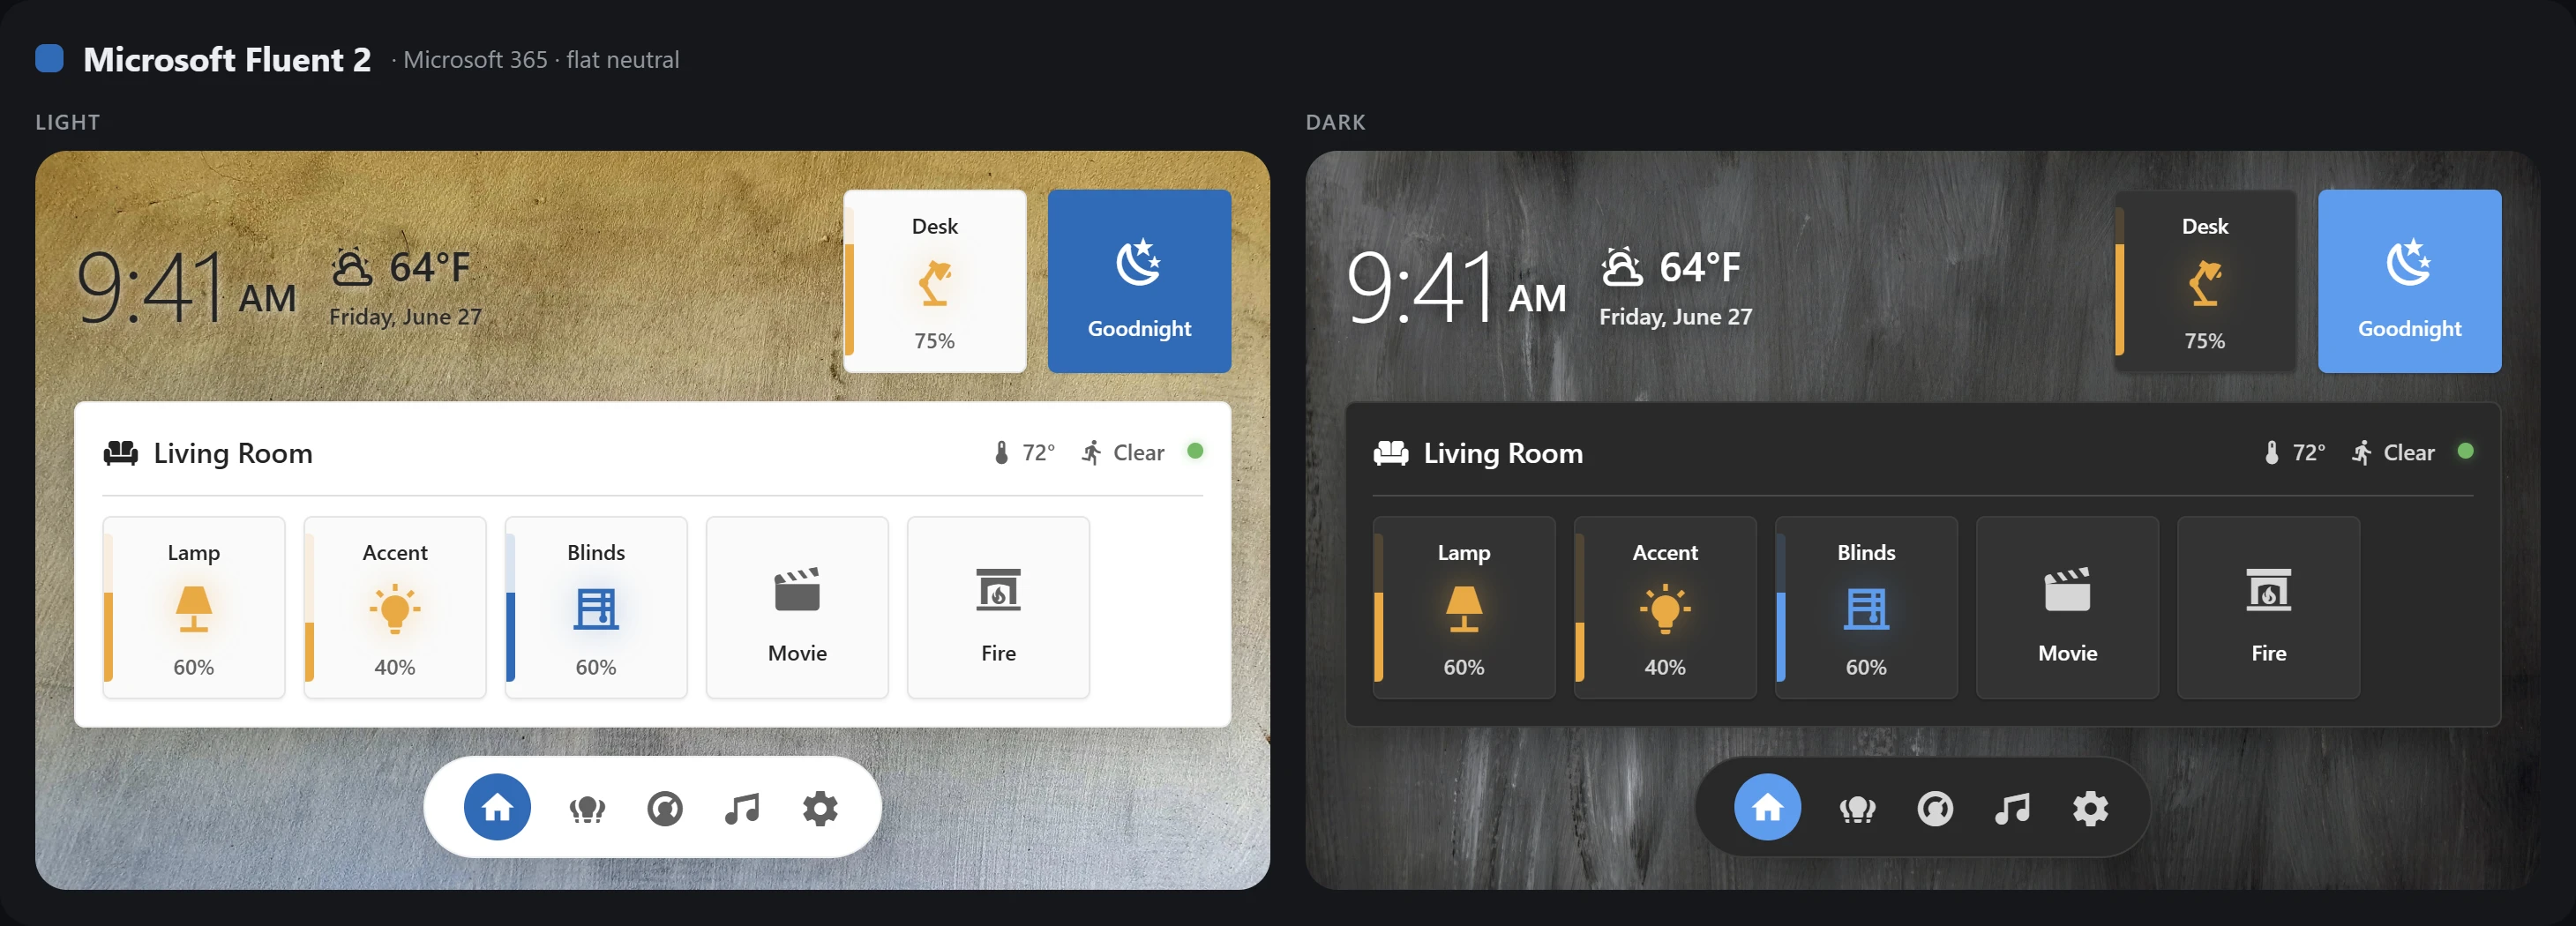
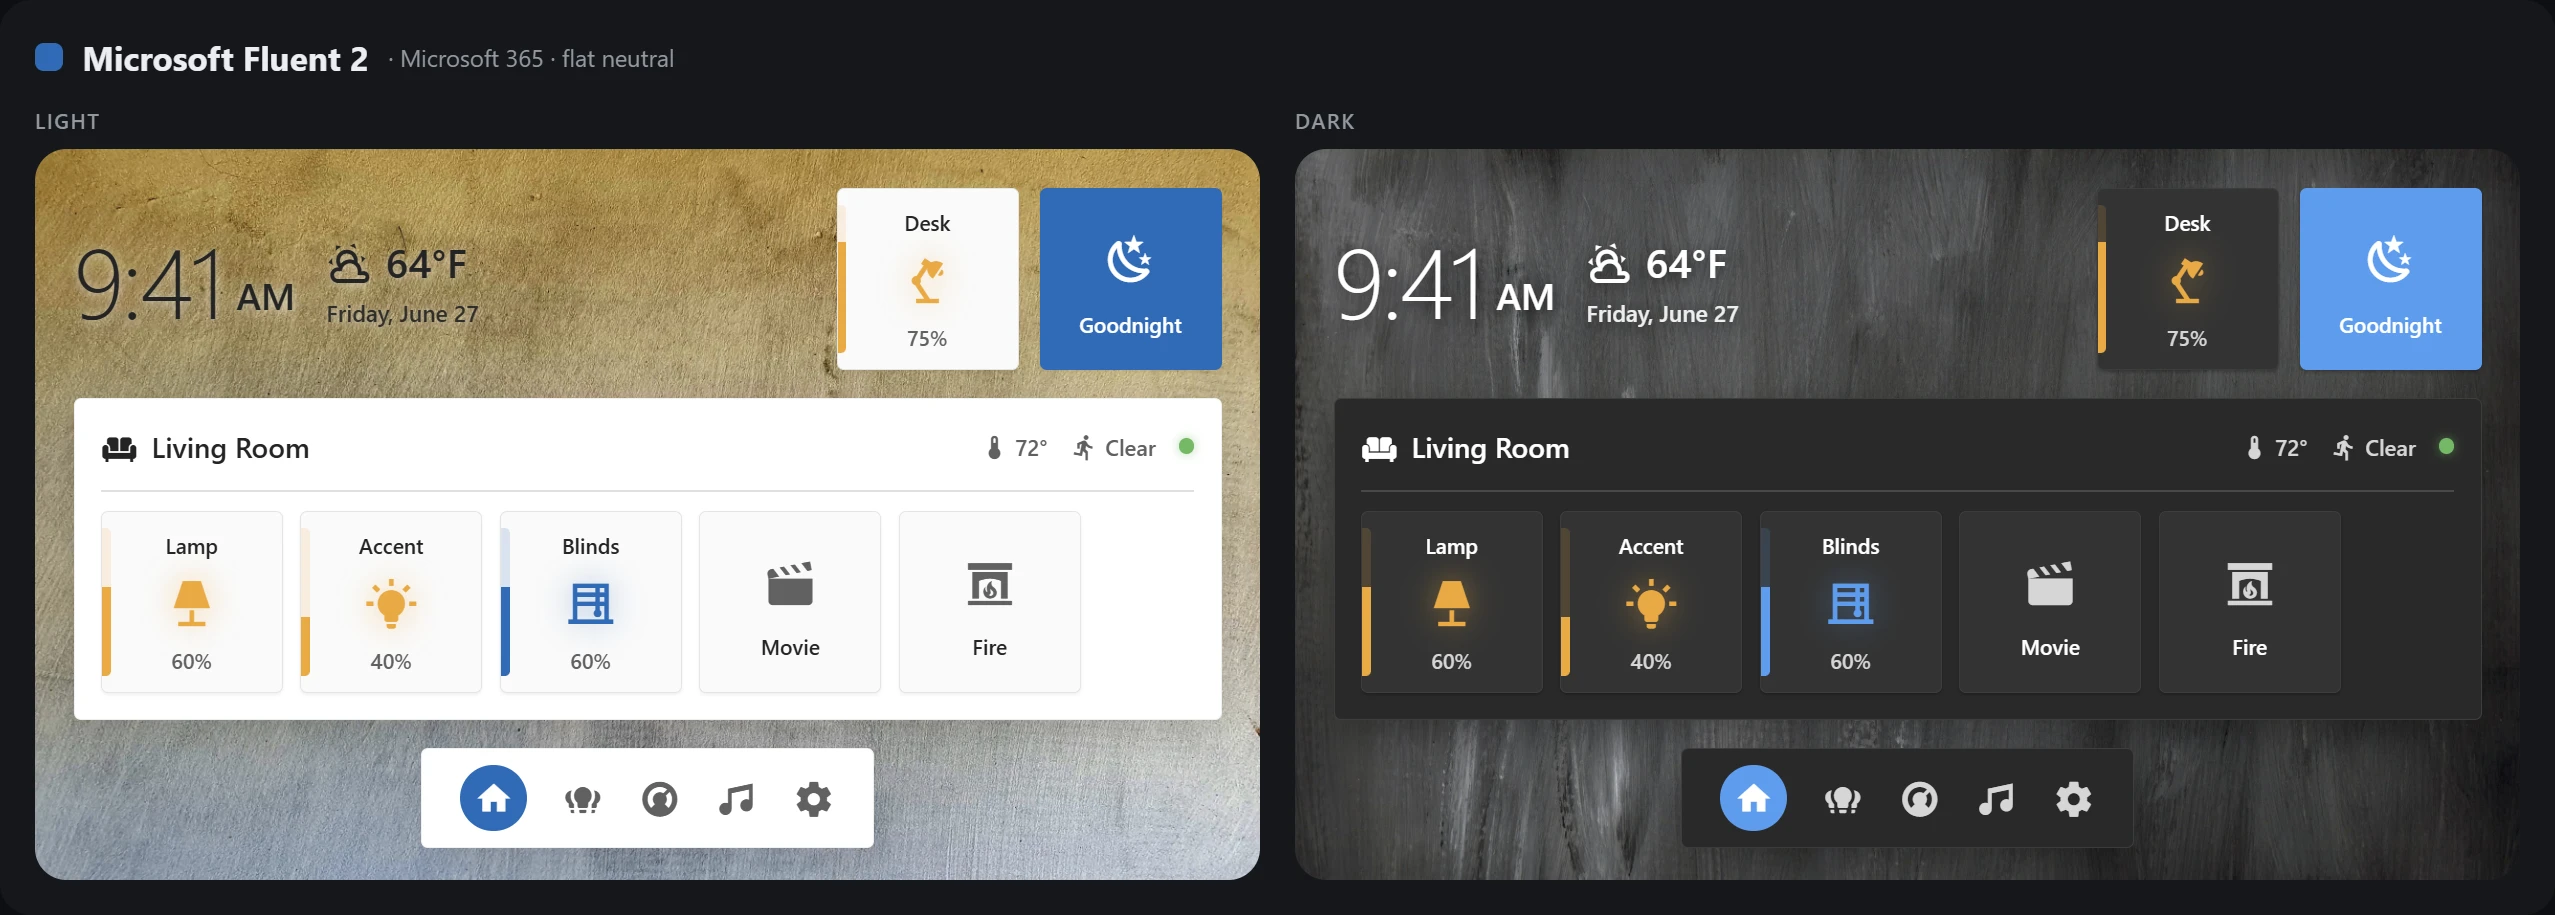
Rename themes (Windows 11, Apple macOS 26) + macOS 26 Tahoe redesign
- Rename Microsoft Windows UI -> Microsoft Windows 11

- Rename Apple HIG -> Apple macOS 26 and redesign for macOS 26 'Tahoe' (Liquid Glass): rounder concentric corners (16px cards), capsule buttons, glassier chrome; content cards stay solid per Apple guidance

- Regenerate all preview images with current tokens + per-theme navbars

diff --git a/README.md b/README.md
@@ -4,12 +4,12 @@ Four native Home Assistant themes that recreate the world's major UI design lang
 
 | Theme | Design language | Look | Accent (light / dark) |
 | --- | --- | --- | --- |
-| **Microsoft Windows UI** | Windows 11 desktop (Fluent Design) | Mica/Acrylic translucency, Segoe UI Variable, 8 px cards, wallpaper | `#0078D4` / `#4CC2FF` |
+| **Microsoft Windows 11** | Windows 11 desktop (Fluent Design) | Mica/Acrylic translucency, Segoe UI Variable, 8 px cards, wallpaper | `#0078D4` / `#4CC2FF` |
 | **Microsoft Fluent 2** | Fluent 2 (Microsoft 365 / Teams / web) | Flat, solid neutral surfaces, Segoe UI, 4 px cards | `#0F6CBD` / `#479EF5` |
-| **Apple HIG** | Apple Human Interface Guidelines (iOS / macOS) | Grouped surfaces, SF Pro, 12 px cards, system blue | `#007AFF` / `#0A84FF` |
+| **Apple macOS 26** | macOS 26 "Tahoe" (Liquid Glass) | Glassy chrome, solid grouped cards, SF Pro, 16 px cards, capsule buttons | `#007AFF` / `#0A84FF` |
 | **Google Material 3** | Material Design 3 / Material You | Tonal surfaces, Roboto / Google Sans, 12 px cards, 28 px dialogs, pill buttons | `#6750A4` / `#D0BCFF` |
 
-> **Note for existing users:** the original **Windows 11** theme has been renamed to **Microsoft Windows UI**. After updating, re-select it in your Profile (the old "Windows 11" name will no longer appear).
+> **Note for existing users:** two themes were renamed — **Microsoft Windows UI → Microsoft Windows 11** and **Apple HIG → Apple macOS 26**. After updating, re-select your theme in your Profile (the old names will no longer appear).
 
 ---
 
@@ -17,19 +17,19 @@ Four native Home Assistant themes that recreate the world's major UI design lang
 
 The dashboards below are built with [**Ted's Cards**](https://github.com/tedr91/HA-Teds-Cards) — set any card to `theme: ha` and it automatically follows whichever theme you've selected, so the same dashboard takes on each design language (and rides on each theme's bundled wallpaper).
 
-![Ted's Theme Collection — Microsoft Windows UI, Microsoft Fluent 2, Apple HIG and Google Material 3](images/showcase.webp)
+![Ted's Theme Collection — Microsoft Windows 11, Microsoft Fluent 2, Apple macOS 26 and Google Material 3](images/showcase.webp)
 
 <details open>
 <summary><b>Each theme — light &amp; dark</b></summary>
 
-#### Microsoft Windows UI
-![Microsoft Windows UI theme — light and dark dashboards](images/theme-microsoft-windows-ui.webp)
+#### Microsoft Windows 11
+![Microsoft Windows 11 theme — light and dark dashboards](images/theme-microsoft-windows-11.webp)
 
 #### Microsoft Fluent 2
 ![Microsoft Fluent 2 theme — light and dark dashboards](images/theme-microsoft-fluent2.webp)
 
-#### Apple HIG
-![Apple HIG theme — light and dark dashboards](images/theme-apple-hig.webp)
+#### Apple macOS 26
+![Apple macOS 26 theme — light and dark dashboards](images/theme-apple-macos-26.webp)
 
 #### Google Material 3
 ![Google Material 3 theme — light and dark dashboards](images/theme-google-material-3.webp)
@@ -46,14 +46,14 @@ The dashboards below are built with [**Ted's Cards**](https://github.com/tedr91/
 
 1. HACS → ⋮ → **Custom repositories** → add this repo's URL with category **Theme**.
 2. Find **Ted's Theme Collection** in HACS → Themes, install, then restart Home Assistant.
-3. Open your **Profile** (bottom-left avatar) and pick one of **Microsoft Windows UI**, **Microsoft Fluent 2**, **Apple HIG**, or **Google Material 3** as the theme. Set **Theme mode** to **Auto** to follow the OS.
+3. Open your **Profile** (bottom-left avatar) and pick one of **Microsoft Windows 11**, **Microsoft Fluent 2**, **Apple macOS 26**, or **Google Material 3** as the theme. Set **Theme mode** to **Auto** to follow the OS.
 
 ### Option 2 — Manual
 
 1. Copy the theme file(s) you want from [themes/](themes/) into your Home Assistant `config/themes/` folder:
-   - [themes/microsoft-windows-ui.yaml](themes/microsoft-windows-ui.yaml) — Microsoft Windows UI
+   - [themes/microsoft-windows-11.yaml](themes/microsoft-windows-11.yaml) — Microsoft Windows 11
    - [themes/microsoft-fluent2.yaml](themes/microsoft-fluent2.yaml) — Microsoft Fluent 2
-   - [themes/apple-hig.yaml](themes/apple-hig.yaml) — Apple HIG
+   - [themes/apple-macos-26.yaml](themes/apple-macos-26.yaml) — Apple macOS 26
    - [themes/google-material-3.yaml](themes/google-material-3.yaml) — Google Material 3
    - Create the `themes/` folder if it does not exist.
 2. Add the following to `configuration.yaml` (skip if you already have a `frontend:` block with `themes:`):
@@ -66,7 +66,7 @@ The dashboards below are built with [**Ted's Cards**](https://github.com/tedr91/
 3. Restart Home Assistant (**Developer Tools → YAML → Restart**, or full restart).
 4. Select your theme in your Profile as above.
 
-> **Tip:** Every theme ships its own **light + dark wallpaper**, enabled by default. The **Microsoft Windows UI** and **Apple HIG** themes use translucency, so their Mica/glass blur looks best over the wallpaper; **Microsoft Fluent 2** and **Google Material 3** keep solid, opaque cards on top. To go fully flat, set `lovelace-background` to a solid color (see Backgrounds below).
+> **Tip:** Every theme ships its own **light + dark wallpaper**, enabled by default. The **Microsoft Windows 11** and **Apple macOS 26** themes use translucency, so their Mica/glass blur looks best over the wallpaper; **Microsoft Fluent 2** and **Google Material 3** keep solid, opaque cards on top. To go fully flat, set `lovelace-background` to a solid color (see Backgrounds below).
 
 ---
 
@@ -74,7 +74,7 @@ The dashboards below are built with [**Ted's Cards**](https://github.com/tedr91/
 
 ### Dropdown row-action menus (translucent themes)
 
-This applies to the **Microsoft Windows UI** and **Apple HIG** themes, which use translucency. The **Microsoft Fluent 2** and **Google Material 3** themes are fully solid, so they are unaffected.
+This applies to the **Microsoft Windows 11** and **Apple macOS 26** themes, which use translucency. The **Microsoft Fluent 2** and **Google Material 3** themes are fully solid, so they are unaffected.
 
 Cards, dialogs (more-info, settings popups, confirmations), bottom sheets, and adaptive popovers all get real `backdrop-filter` blur because HA exposes dedicated theme variables (`--ha-card-backdrop-filter`, `--ha-dialog-surface-backdrop-filter`).
 
@@ -90,9 +90,9 @@ Every theme ships its **own light + dark wallpaper**, enabled by default and mat
 
 | Theme | Folder | Light | Dark |
 | --- | --- | --- | --- |
-| Microsoft Windows UI | [microsoft-windows-ui/](backgrounds/microsoft-windows-ui/) | smooth blue flow | liquid blue waves |
+| Microsoft Windows 11 | [microsoft-windows-11/](backgrounds/microsoft-windows-11/) | smooth blue flow | liquid blue waves |
 | Microsoft Fluent 2 | [microsoft-fluent2/](backgrounds/microsoft-fluent2/) | neutral concrete | dark-grey brushstroke |
-| Apple HIG | [apple-hig/](backgrounds/apple-hig/) | pastel waves | 3D purple/blue wave |
+| Apple macOS 26 | [apple-macos-26/](backgrounds/apple-macos-26/) | pastel waves | 3D purple/blue wave |
 | Google Material 3 | [google-material-3/](backgrounds/google-material-3/) | geometric shapes | tonal gradient |
 
 A shared library of **7 Win11-style wallpapers** also ships in [backgrounds/general/](backgrounds/general/) for use with any theme.
@@ -101,7 +101,7 @@ Wallpapers are served via the [jsDelivr CDN](https://www.jsdelivr.com/) directly
 
 ### Switching to a different bundled wallpaper
 
-Edit the theme file in [themes/](themes/) (e.g. [themes/microsoft-windows-ui.yaml](themes/microsoft-windows-ui.yaml)) and change the filename in the `lovelace-background` line under the `light:` or `dark:` block. The shared `general/` library (preview each by clicking):
+Edit the theme file in [themes/](themes/) (e.g. [themes/microsoft-windows-11.yaml](themes/microsoft-windows-11.yaml)) and change the filename in the `lovelace-background` line under the `light:` or `dark:` block. The shared `general/` library (preview each by clicking):
 
 | Filename | Mood |
 | --- | --- |
@@ -162,7 +162,7 @@ views:
 
 ## Customizing the accent color
 
-Each theme ships with its design language's signature accent (**Microsoft Windows UI** `#0078D4`, **Microsoft Fluent 2** `#0F6CBD`, **Apple HIG** `#007AFF`, **Google Material 3** `#6750A4`). To use a different accent, edit the relevant file in [themes/](themes/) — for example [themes/microsoft-windows-ui.yaml](themes/microsoft-windows-ui.yaml) — and change these in **both** the `light:` and `dark:` mode blocks:
+Each theme ships with its design language's signature accent (**Microsoft Windows 11** `#0078D4`, **Microsoft Fluent 2** `#0F6CBD`, **Apple macOS 26** `#007AFF`, **Google Material 3** `#6750A4`). To use a different accent, edit the relevant file in [themes/](themes/) — for example [themes/microsoft-windows-11.yaml](themes/microsoft-windows-11.yaml) — and change these in **both** the `light:` and `dark:` mode blocks:
 
 ```yaml
 ha-color-primary-40: '#0078D4'     # ← your accent (hex) — light mode default
@@ -193,15 +193,15 @@ Common Windows 11 accents:
 ```
 teds-themes/
 ├── themes/
-│   ├── microsoft-windows-ui.yaml   ← Microsoft Windows UI (Windows 11 / Mica)
+│   ├── microsoft-windows-11.yaml   ← Microsoft Windows 11 (Fluent / Mica)
 │   ├── microsoft-fluent2.yaml      ← Microsoft Fluent 2 (flat, solid)
-│   ├── apple-hig.yaml              ← Apple HIG (grouped, SF Pro)
+│   ├── apple-macos-26.yaml         ← Apple macOS 26 (Liquid Glass)
 │   └── google-material-3.yaml      ← Google Material 3 (tonal, Roboto)
 ├── backgrounds/                    ← wallpapers (served via jsDelivr CDN)
 │   ├── general/                    ← 7 shared Win11-style wallpapers
-│   ├── microsoft-windows-ui/       ← Windows UI light + dark
+│   ├── microsoft-windows-11/       ← Windows 11 light + dark
 │   ├── microsoft-fluent2/          ← Fluent 2 light + dark
-│   ├── apple-hig/                  ← Apple HIG light + dark
+│   ├── apple-macos-26/             ← Apple macOS 26 light + dark
 │   └── google-material-3/          ← Material 3 light + dark
 ├── design-guides/                  ← Fluent 2, Apple HIG & Material 3 reference specs
 ├── README.md
@@ -213,8 +213,8 @@ teds-themes/
 
 ## Credits
 
-- **Microsoft Windows UI** & **Microsoft Fluent 2** — color tokens & opacities derived from Microsoft's public **Fluent 2 / WinUI 3** design specifications.
-- **Apple HIG** — color, type, and shape tokens derived from Apple's public **Human Interface Guidelines** (iOS 18 / macOS Sequoia).
+- **Microsoft Windows 11** & **Microsoft Fluent 2** — color tokens & opacities derived from Microsoft's public **Fluent 2 / WinUI 3** design specifications.
+- **Apple macOS 26** — color, type, and shape tokens derived from Apple's **Human Interface Guidelines** and the macOS 26 "Tahoe" / Liquid Glass design language.
 - **Google Material 3** — color, type, and shape tokens derived from Google's public **Material Design 3 / Material You** baseline specifications.
 - Built for Home Assistant 2026.x (also compatible with earlier versions via legacy token aliases).
 